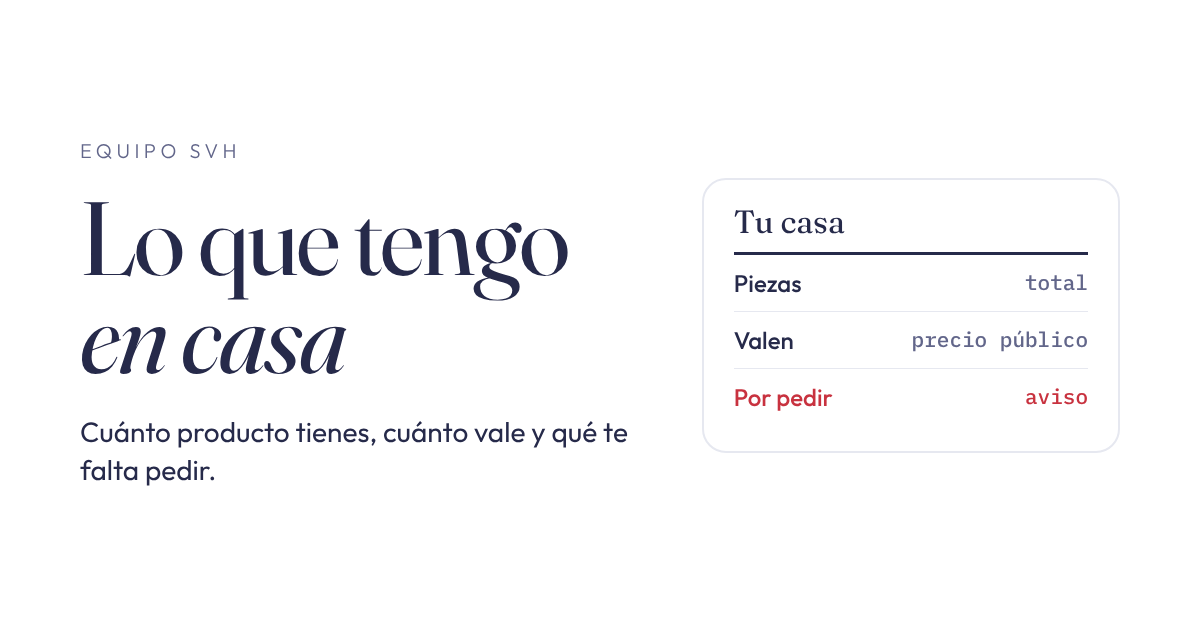
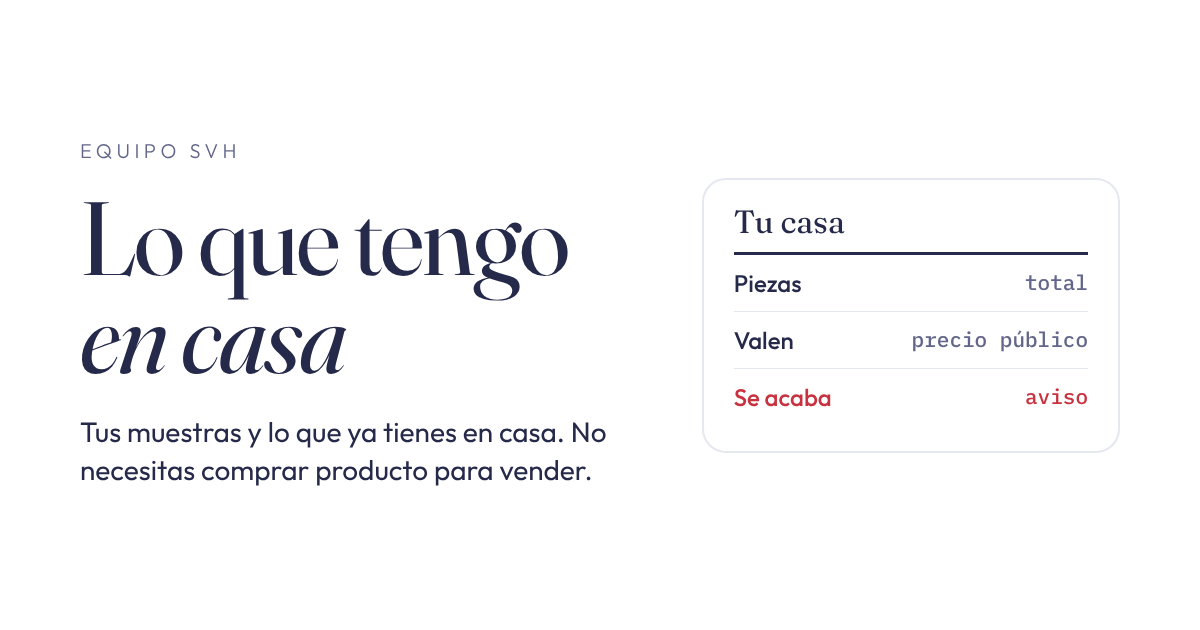
Quita la idea de tener producto en casa y la cita de BehindMLM
Inventario, guía del primer mes y Pro aclaran que no se necesita comprar
producto para vender. Se quita la reseña de BehindMLM de las fuentes del plan.

Claude-Session: https://claude.ai/code/session_013dYAEFHmdrhWDginMpfCV8

Changed region(s): [[0.0617, 0.6635, 0.5242, 0.7841], [0.6167, 0.6032, 0.7092, 0.6635]]

diff --git a/mentorias/herramientas/inventario/index.html b/mentorias/herramientas/inventario/index.html
@@ -4,9 +4,9 @@
 <meta charset="utf-8">
 <meta name="viewport" content="width=device-width,initial-scale=1,viewport-fit=cover">
 <title>Lo que tengo en casa</title>
-<meta name="description" content="Anota el producto que tienes en casa, cuánto vale y qué ya vendiste. Siempre sabes qué te falta pedir. Gratis, se guarda en tu celular.">
+<meta name="description" content="Anota tus muestras y el producto que ya tienes en casa: cuánto vale y qué ya prestaste o vendiste. No necesitas comprar producto para vender. Gratis, se guarda en tu celular.">
 <meta property="og:title" content="Lo que tengo en casa">
-<meta property="og:description" content="Qué producto tienes, cuánto vale y qué te falta pedir.">
+<meta property="og:description" content="Tus muestras y lo que ya tienes en casa, en un solo lugar.">
 <meta property="og:type" content="website">
 <meta property="og:locale" content="es_MX">
 <meta property="og:url" content="https://mitienda.beauty/mentorias/herramientas/inventario/">
@@ -80,7 +80,7 @@
   <header class="portada">
     <div>
       <h1>Lo que tengo <em>en casa</em></h1>
-      <p class="bajada">Tu producto en un lugar: cuántos tienes, cuánto vale y cuál se está acabando. Cuando vendes uno, tocas un botón.</p>
+      <p class="bajada">No necesitas tener producto en casa para vender: Farmasi le envía cada pedido a tu clienta. Esto es para tus muestras y lo que ya tienes: cuántos son, cuánto valen y cuál se está acabando.</p>
     </div>
     <section class="bloque" aria-label="Tu inventario">
       <h2>Tu <em>inventario</em></h2>
@@ -158,7 +158,7 @@
     var tope = !pro && st.its.length >= LIM; $("lim").textContent = pro ? "Sin límite de productos." : st.its.length + " de " + LIM + " productos gratis."; $("lim").style.color = tope ? "var(--accent-ink)" : "";
     $("alta").querySelector("button").disabled = tope;
     var bajos = pro ? st.its.filter(function(i){ return i.min !== "" && i.min != null && (+i.q || 0) <= +i.min; }) : [];
-    $("alertas").innerHTML = bajos.length ? '<div class="alerta"><b>Por pedir:</b> ' + bajos.map(function(i){ return H.esc(i.n) + " (" + (+i.q || 0) + ")"; }).join(", ") + ".</div>" : "";
+    $("alertas").innerHTML = bajos.length ? '<div class="alerta"><b>Se están acabando:</b> ' + bajos.map(function(i){ return H.esc(i.n) + " (" + (+i.q || 0) + ")"; }).join(", ") + ".</div>" : "";
     $("its").innerHTML = "";
     st.its.forEach(function(i){
       var d = document.createElement("div"), bajo = pro && i.min !== "" && i.min != null && (+i.q || 0) <= +i.min;

diff --git a/plan-de-compensacion/index.html b/plan-de-compensacion/index.html
@@ -456,7 +456,7 @@ footer a{color:var(--muted)}
 
   <footer>
     <p>Esta página la hizo el equipo para estudiar el plan. No es material oficial de Farmasi. Lo que manda es el plan de compensación vigente en tu Back Office.</p>
-    <p style="margin-top:8px">Fuentes consultadas: Guía de inscripción México de Farmasi, <a href="https://www.farmasidemexico.com/" rel="noopener">página de registro de Farmasi México</a>, <a href="https://farmasi-join.com/business" rel="noopener">guía de Estados Unidos (no oficial)</a>, <a href="https://mlm-explorer.com/companies/farmasi/farmasi-compensation-plan/" rel="noopener">mlm-explorer (no oficial)</a>, <a href="https://beautyinfluencer-global.com/es/oportunidad/" rel="noopener">beautyinfluencer-global (no oficial, en dólares)</a>, <a href="https://behindmlm.com/mlm-reviews/farmasi-review-250-forced-not-a-pharmacy-product-orders/" rel="noopener">reseña de BehindMLM (no oficial)</a> y <a href="https://vivaelnetworking.com/empresas/farmasi/" rel="noopener">vivaelnetworking (no oficial)</a>.</p>
+    <p style="margin-top:8px">Fuentes consultadas: Guía de inscripción México de Farmasi, <a href="https://www.farmasidemexico.com/" rel="noopener">página de registro de Farmasi México</a>, <a href="https://farmasi-join.com/business" rel="noopener">guía de Estados Unidos (no oficial)</a>, <a href="https://mlm-explorer.com/companies/farmasi/farmasi-compensation-plan/" rel="noopener">mlm-explorer (no oficial)</a>, <a href="https://beautyinfluencer-global.com/es/oportunidad/" rel="noopener">beautyinfluencer-global (no oficial, en dólares)</a> y <a href="https://vivaelnetworking.com/empresas/farmasi/" rel="noopener">vivaelnetworking (no oficial)</a>.</p>
   </footer>
 </div>
 

diff --git a/guias/primer-mes/index.html b/guias/primer-mes/index.html
@@ -215,7 +215,7 @@
       {t:"Aprende la presentación", x:"Son seis pantallas con lo confirmado del negocio. Pásalas dos veces y cuéntalas con tus palabras.", h:["La presentación en 5 minutos", T+"presentacion/"]},
       {t:"Tu primera presentación de negocio", x:"A una persona de tu lista que te haya preguntado cómo te va. Escucha más de lo que hablas.", h:["La presentación en 5 minutos", T+"presentacion/"]},
       {t:"Una reunión pequeña", x:"Tres o cuatro amigas, producto en la mesa, 45 minutos. Hoy solo fija la fecha y manda la invitación.", h:["Mi reunión", T+"reunion/"]},
-      {t:"Lo que tienes en casa", x:"Anota el producto que tienes, cuánto vale y qué ya vendiste. Así sabes qué pedir y qué ofrecer primero.", h:["Lo que tengo en casa", T+"inventario/"]},
+      {t:"Tus muestras", x:"No necesitas comprar producto para vender: Farmasi le envía cada pedido a tu clienta. Si te quedaron muestras del kit, anótalas para saber qué prestar y qué ofrecer primero.", h:["Lo que tengo en casa", T+"inventario/"]},
       {t:"Cómo te fue con el reto", x:"Si llegaste a 200, ya estás en 3%. Si no, cuenta cuánto llevas y qué te faltó: es el dato para tu siguiente reto.", l:"1 a 1 de la semana 3: cierre del reto y qué sigue."}
     ]},
     {cuando:"Días 22 a 30", tit:"Tu primer cierre", sub:"Recompra, tu lista completa y tu mes en una hoja.", dias:[

diff --git a/mentorias/herramientas/pro/pro.js b/mentorias/herramientas/pro/pro.js
@@ -46,7 +46,7 @@ window.PRO = (function(){
      d:"Noventa guiones completos: reels, historias y carruseles, por ritmo, con productos del catálogo y el plan de cuatro semanas de contenido que trae prospectos."},
     {s:"mi-mes", t:"Mi mes · Pro", precio:99, tipo:"seguimiento", ruta:"/mentorias/herramientas/mi-mes/", para:"Para quien quiere ver cómo va mes contra mes.",
      d:"Historial de meses, tus tasas y la comparación contra el plan Pro que compraste."},
-    {s:"inventario", t:"Lo que tengo en casa · Pro", precio:99, tipo:"finanzas", ruta:"/mentorias/herramientas/inventario/", para:"Para quien vende con producto en mano.",
+    {s:"inventario", t:"Lo que tengo en casa · Pro", precio:99, tipo:"finanzas", ruta:"/mentorias/herramientas/inventario/", para:"Para quien guarda muestras o producto para enseñar.",
      d:"Sin tope de productos, avisos de lo que se acaba, ganancia de lo vendido e historial."},
     {s:"testimonios", t:"Lo que dicen mis clientas · Pro", precio:99, tipo:"contenido", ruta:"/mentorias/herramientas/testimonios/", para:"Para quien tiene clientas contentas.",
      d:"Un link para que tus clientas te dejen su testimonio. Tú apruebas los que quieras y los copias para tus historias."},
